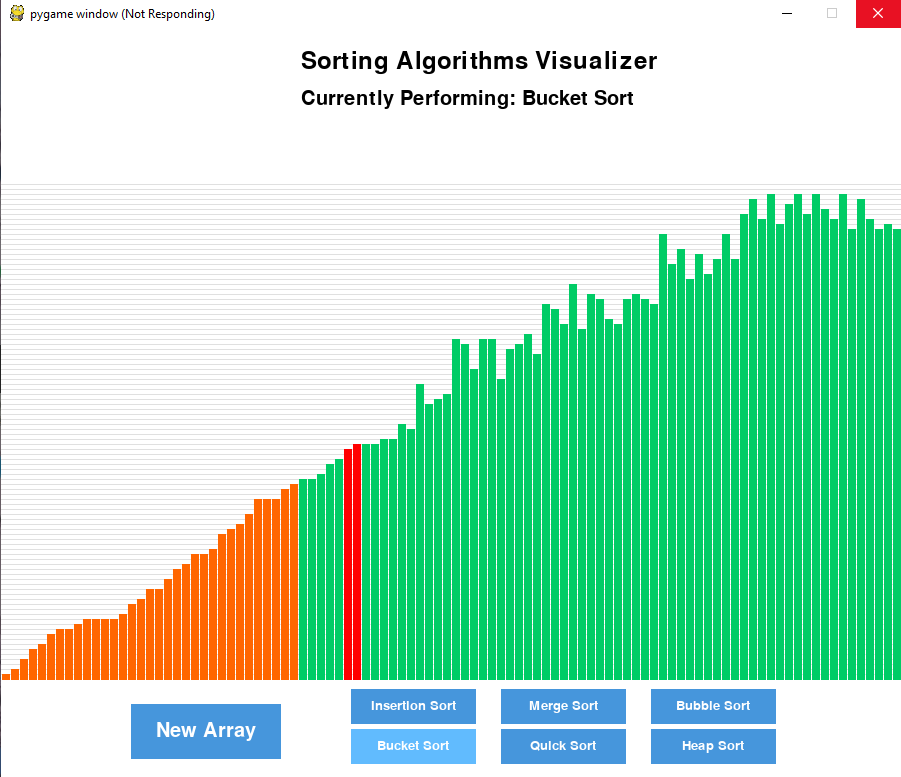
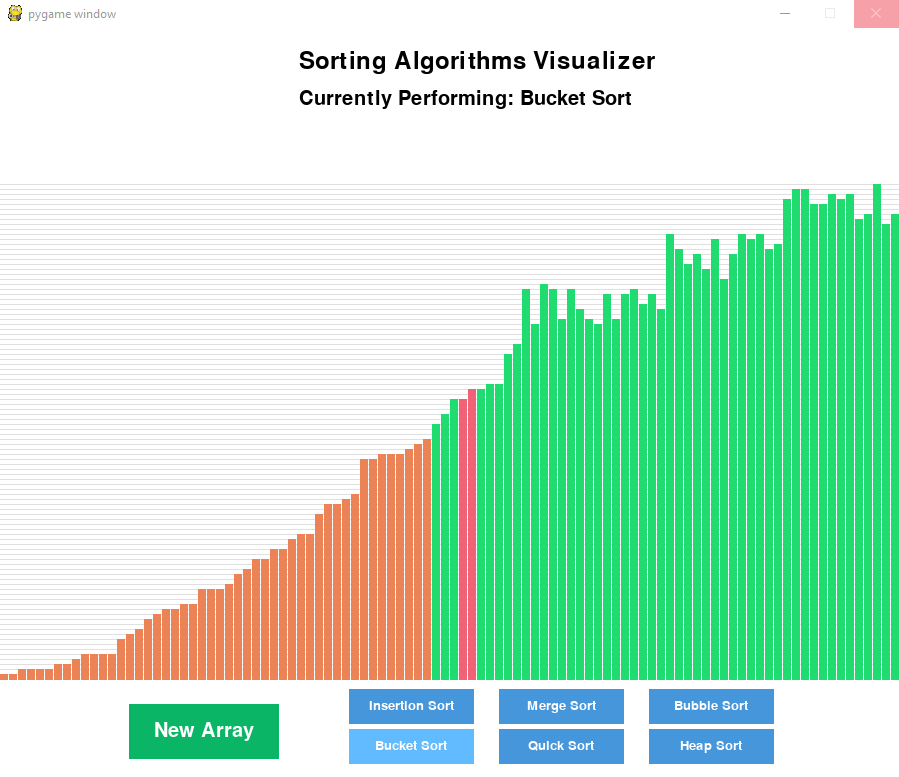
Add files via upload

diff --git a/SortAlgsVisual.py b/SortAlgsVisual.py
@@ -21,11 +21,13 @@ width=900
 height=600
 numBars=100
 maxVal=100
+delay=20
 
-barClr=(0, 204, 102)
-barClrView=(255, 0, 0)
-barClrSwitch=(0, 0, 153)
-barClrEnd=(255, 102, 0)
+
+barClr=(31, 219, 112)
+barClrView=(240, 98, 117)
+barClrSwitch=(41, 79, 194)
+barClrEnd=(235, 131, 87)
 
 btnHover=(97, 187, 254)
 btnClr=(70,150,220)
@@ -43,7 +45,7 @@ def refill():
     screen.fill((255,255,255))
     draw()
     pygame.display.update()
-    pygame.time.delay(20)
+    pygame.time.delay(delay)
 
 def button(msg,font,x,y,w,h,active,inactive):
     mouse=pygame.mouse.get_pos()
@@ -54,7 +56,7 @@ def button(msg,font,x,y,w,h,active,inactive):
 
     
     text=font.render(msg,1,(255,255,255))
-    text_rect = text.get_rect(center=(x+(w/2), y+(h/2)))
+    text_rect = text.get_rect(center=(x+(w//2), y+(h//2)))
     screen.blit(text, text_rect)
 
 
@@ -68,7 +70,7 @@ def draw():
         screen.blit(desc, (300, 60))
     #render buttons
     #new Array (top right x,top right y, len, width)
-    button("New Array",fnt,130,675,150,55,btnHover,btnClr)
+    button("New Array",fnt,130,675,150,55,(14, 237, 134),(11, 181, 102))
     # Insertion Sort
     button("Insertion Sort",fnt1,350,660,125,35,btnHover,btnClr)
     # Bucket Sort
@@ -374,11 +376,11 @@ while run:
                 elif 650+125>mouse[0]>650 and 700+35>mouse[1]>700:
                     sortingMethod="Heap"
                     heapSort(num_array)
-                
 
     #draw the new events.
     draw()
     sortingMethod=""
+    delay=20
 
     pygame.display.update()
     #sortingMethod=""
